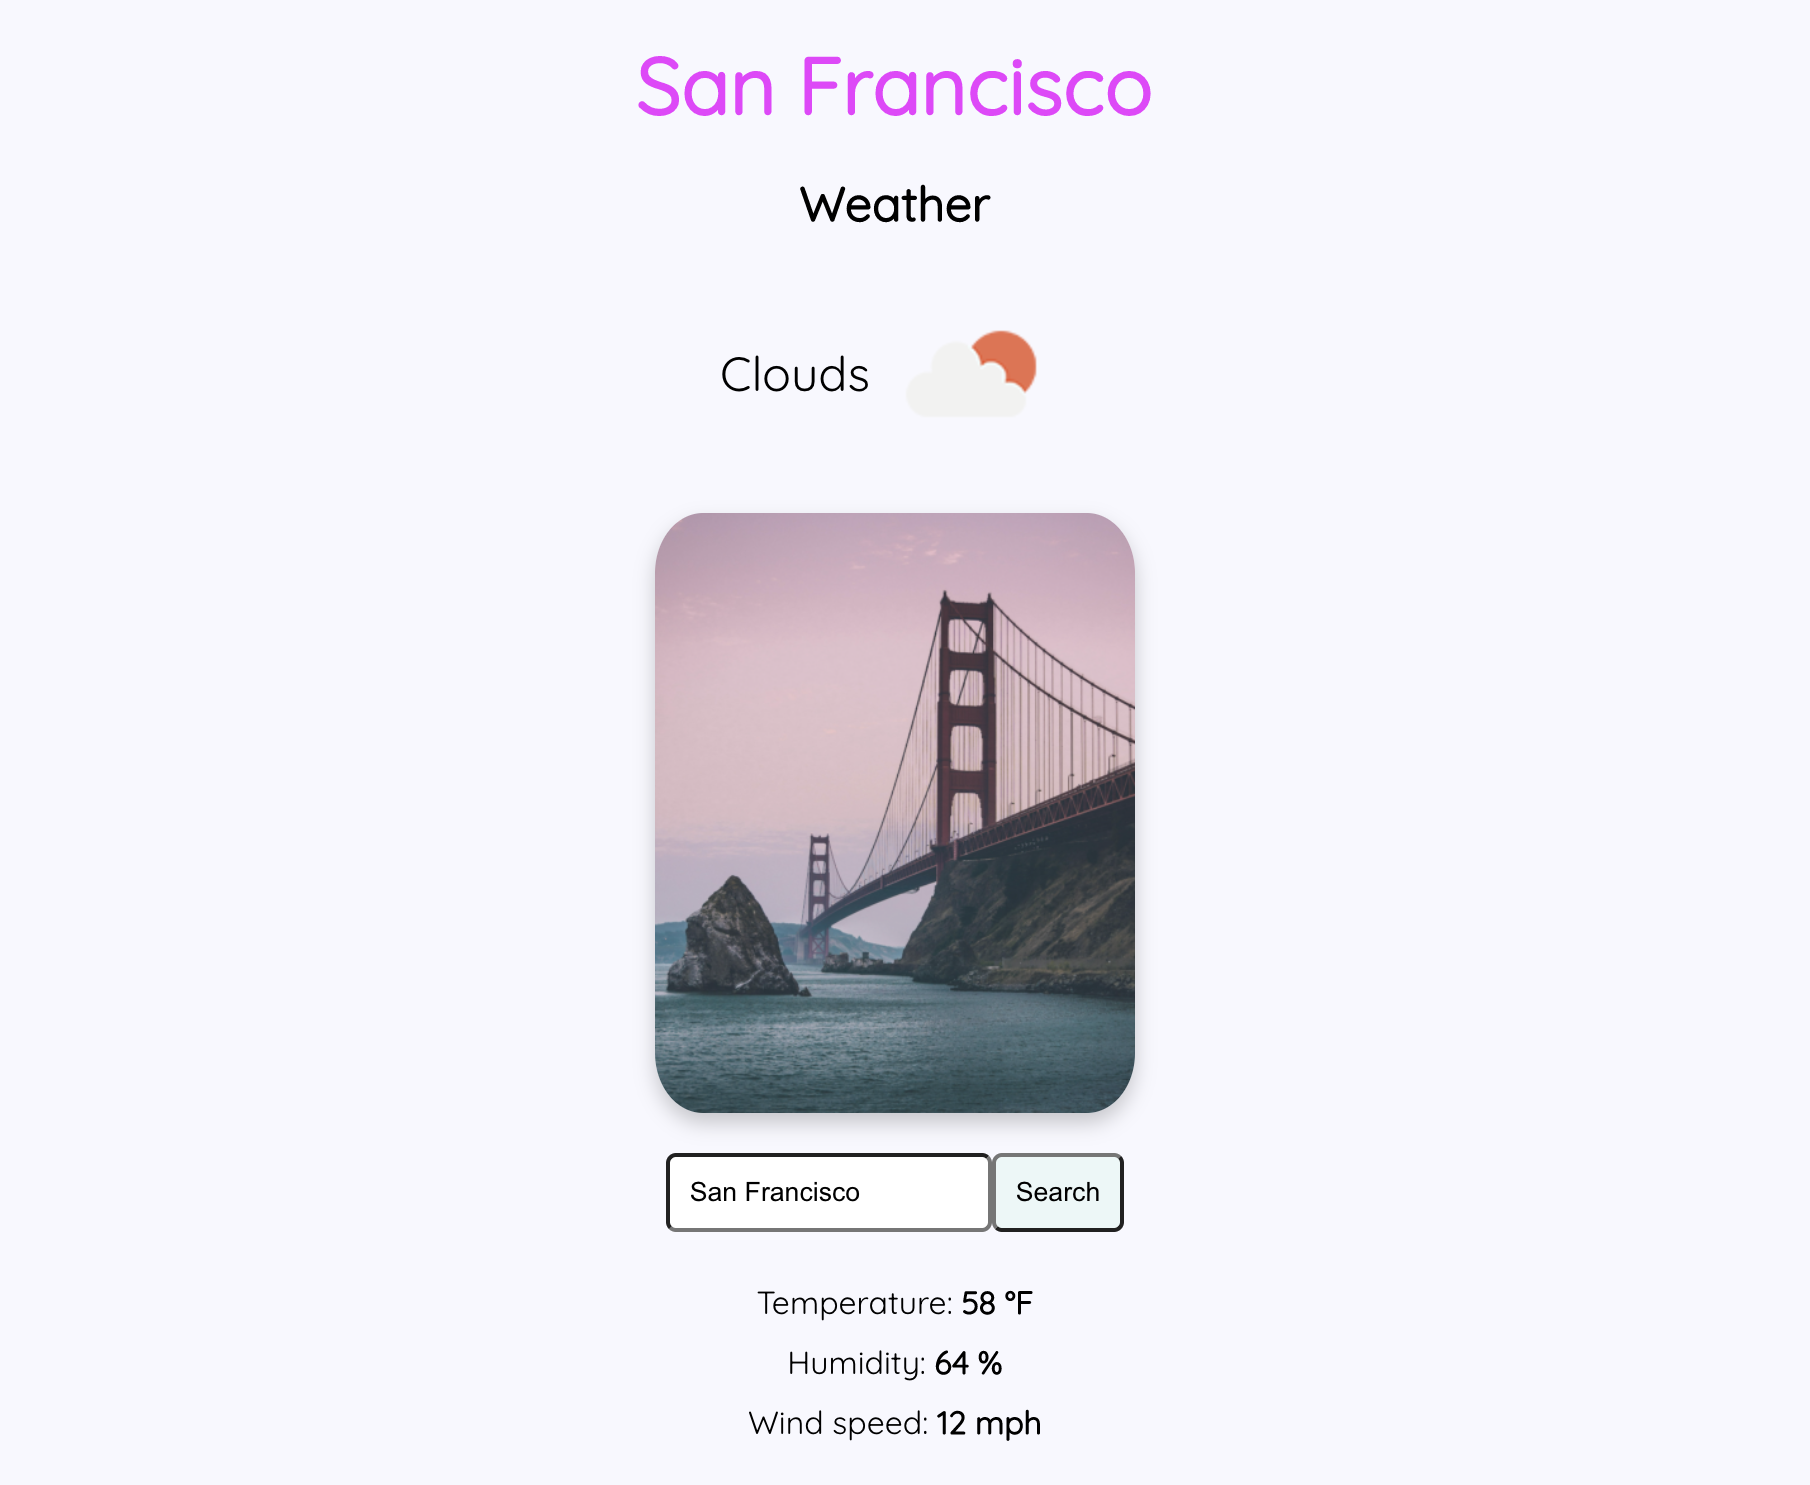
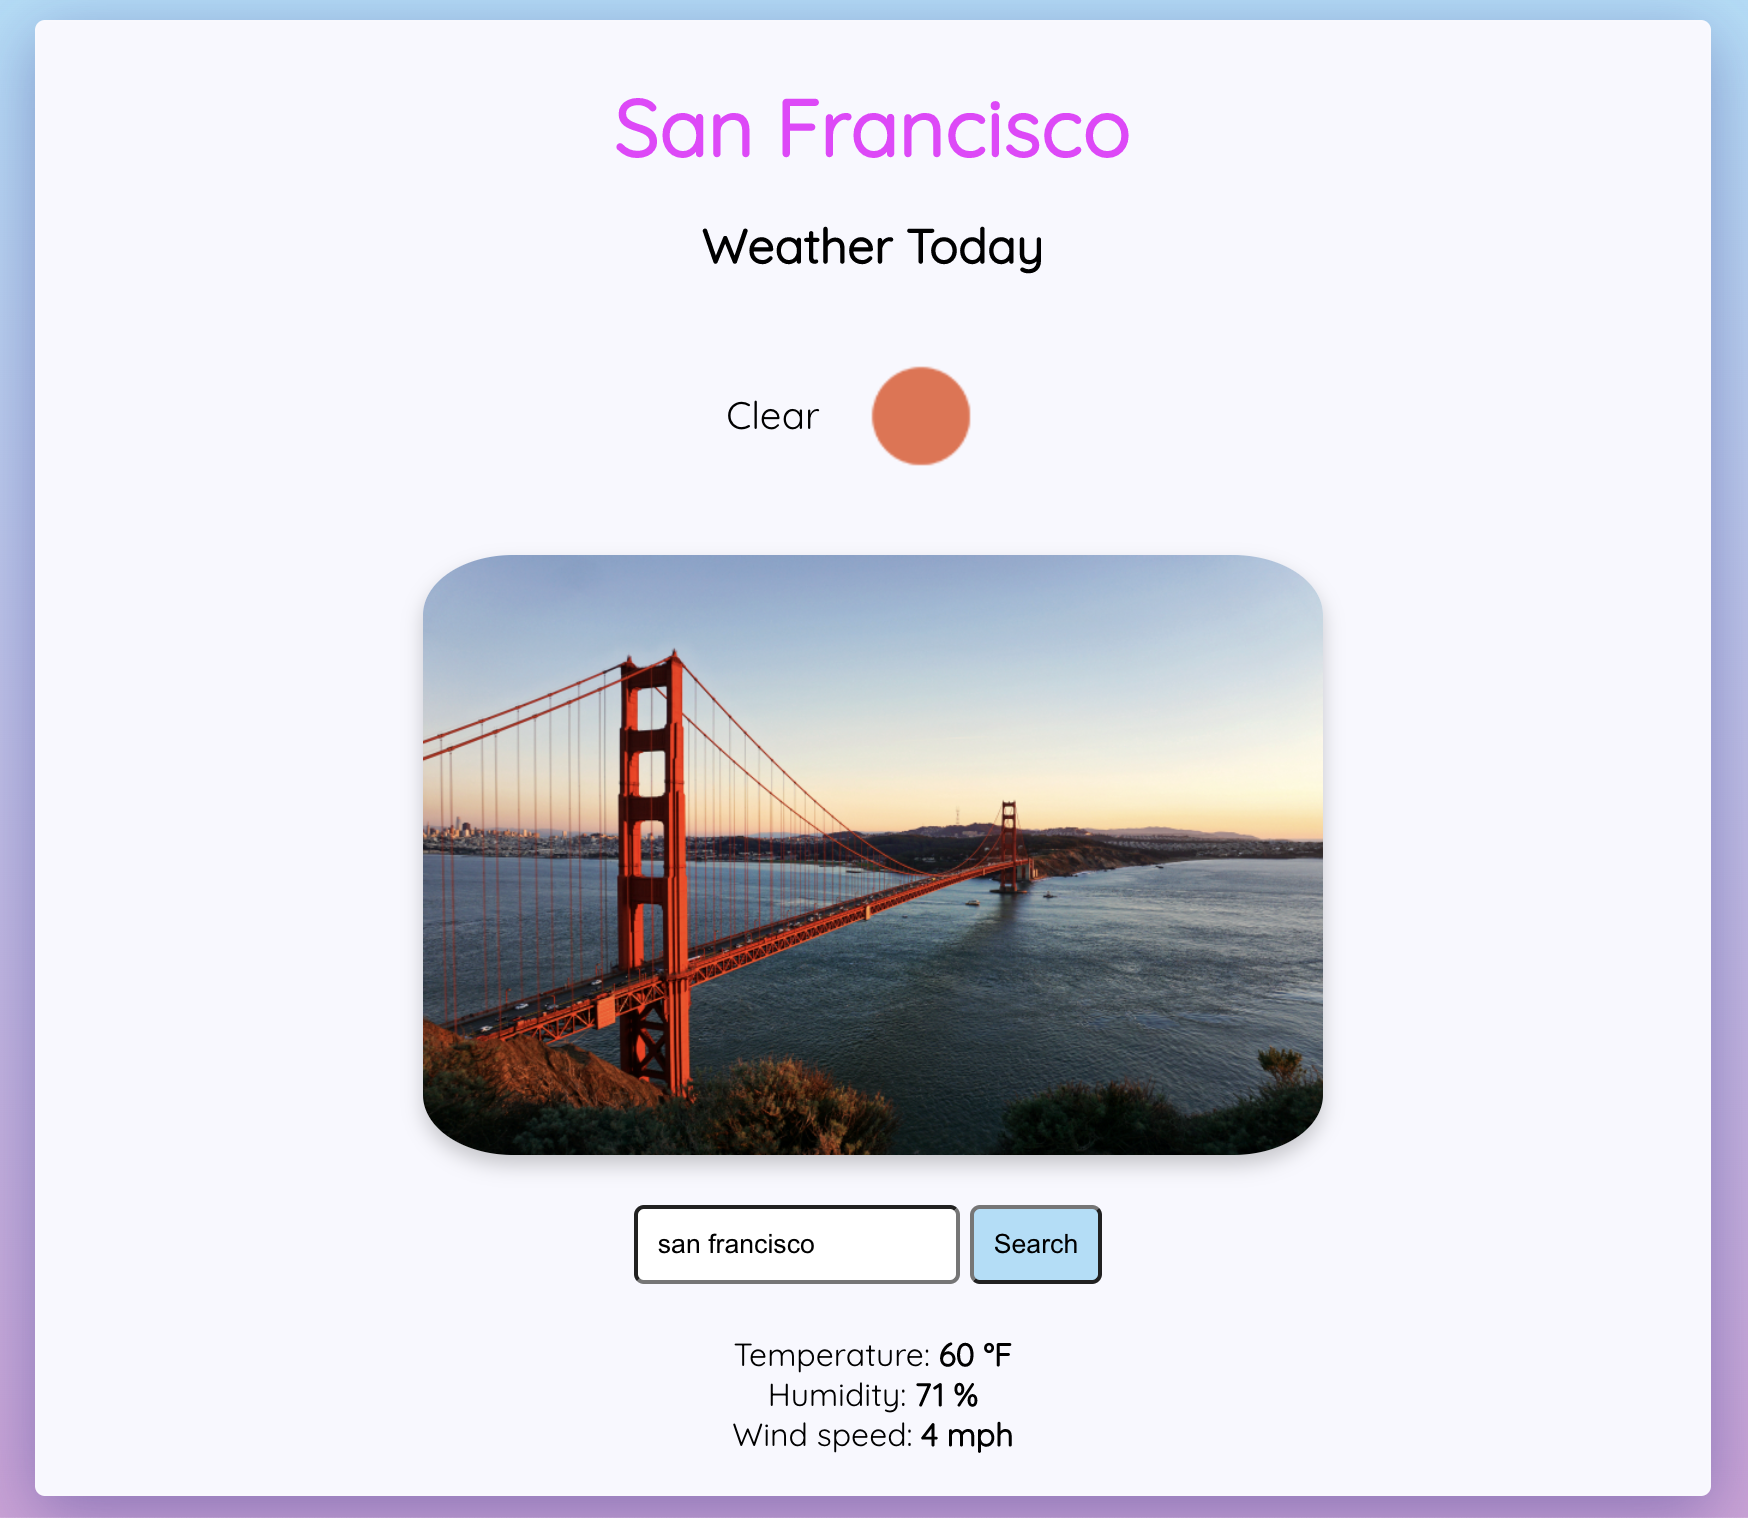
refactored code and updated media queries for mobile and tablet

Changed region(s): [[0.0, 0.0, 1.0, 1.0], [0.4016, 0.2168, 0.587, 0.3098]]

diff --git a/src/App.js b/src/App.js
@@ -16,7 +16,7 @@ export default function App() {
 
 
   useEffect(() => {
-    // handleSubmit();
+    handleSubmit();
     axios.get(`https://api.openweathermap.org/data/2.5/weather?q=${location}&APPID=${WEATHER_API_KEY}&units=imperial`)
     .then(res => {
       setWeather(res.data);
@@ -24,7 +24,7 @@ export default function App() {
     })
     .catch(err => {
       console.log(err)
-      alert('There has been an error. Please re-enter the location.')
+      alert('There has been an error. Please select another city.')
     })
 
     axios.get(`https://api.unsplash.com/search/photos?query=${location}&client_id=${UNSPLASH_API_KEY}`)
@@ -39,8 +39,7 @@ export default function App() {
 
 
 
-  const handleSubmit = (e) => {
-    e.preventDefault();
+  const handleSubmit = () => {
     axios.get(`https://api.openweathermap.org/data/2.5/weather?q=${location}&APPID=${WEATHER_API_KEY}&units=imperial`)
     .then(res => {
       setWeather(res.data)
@@ -48,7 +47,7 @@ export default function App() {
     })
     .catch(err => {
       console.log(err);
-      alert('There has been an error. Please re-enter the location.')
+      alert('There has been an error. Please select another city.')
     })
 
     axios.get(`https://api.unsplash.com/search/photos?query=${location}&client_id=${UNSPLASH_API_KEY}`)
@@ -59,23 +58,15 @@ export default function App() {
       console.log(err);
     })
   }
-  const temp = weather?.main?.temp.toFixed();
-  const humidity = weather?.main?.humidity;
-  const wind = weather?.wind?.speed.toFixed();
-  // const icon = weather?.weather[0].main;
-
 
   return (
     
     <AppContainer>
-      
         <h1>{(weather.name)} </h1>
-        <h2>Weather</h2>
+        <h2>Weather Today</h2>
         <p className="weather-icon">{description.main}
           <img className='weather-icon' src={`http://openweathermap.org/img/wn/${description.icon}@2x.png`} alt='weather icon'/>
         </p> 
-
-    
         <img className="city-image" src={photos} alt='location' />
         <div className='search'>
           <input
@@ -87,11 +78,10 @@ export default function App() {
           />
           <button onClick={handleSubmit}>Search</button>
         </div>
-
         <div className='weather'>
-          <p className="temp">Temperature: <b>{temp} &deg;F </b></p>
-          <p className="temp">Humidity: <b>{humidity} % </b></p>
-          <p className="temp">Wind speed: <b>{wind} mph </b></p>
+          <p className="temp">Temperature: <b>{weather?.main?.temp.toFixed()} &deg;F </b></p>
+          <p className="temp">Humidity: <b>{weather?.main?.humidity} % </b></p>
+          <p className="temp">Wind speed: <b>{weather?.wind?.speed.toFixed()} mph </b></p>
         </div>
     </AppContainer>
   );
@@ -103,9 +93,8 @@ display: flex;
 flex-direction: column;
 text-align: center;
 margin: 20px auto;
-width: 90%;
+width: 60%;
 background-color: #f8f8ff;
-
 box-shadow: 0 8px 32px 0 rgba(31, 38, 135, 0.37);
 backdrop-filter: blur(10px);
 -webkit-backdrop-filter: blur(4px);
@@ -116,9 +105,15 @@ h1 {
   font-size: 2.5rem;
   color: #f038ff;
   margin-bottom: 0;
-
 }
-
+.weather-icon {
+  width: auto;
+  font-size: 1.2rem;
+  display: flex;
+  align-items: center;
+  justify-content: center;
+  margin: 0;
+}
 .weather {
   margin: 20px;
 }
@@ -126,16 +121,7 @@ h1 {
   font-size: 1rem;
   color: black;
   text-align: center;
-  padding: 5px;
   margin: auto;
-}
-.weather-icon {
-  width: auto;
-  font-size: 1.5rem;
-  display: flex;
-  align-items: center;
-  justify-content: center;
-  margin: 0;
 }
 .city-image{
   max-height: 300px;
@@ -145,20 +131,23 @@ h1 {
 }
 button{
   border-radius: 5px;
-  background: #ebf7f7;
+  background: #a9def9;
   padding: 10px;
+  margin: 5px;
 }
 input {
   border-radius: 5px;
   padding: 10px;
 }
 @media (max-width: 820px) {
+  width: 80%;
   .city-image {
-    max-height: 200px;
+    width: 70%;
   }
-@media (max-width: 300px) {
+@media (max-width: 580px) {
+  width: 90%;
   .city-image {
-    max-height: 100px;
+    width: 80%;
   }
 }
 
